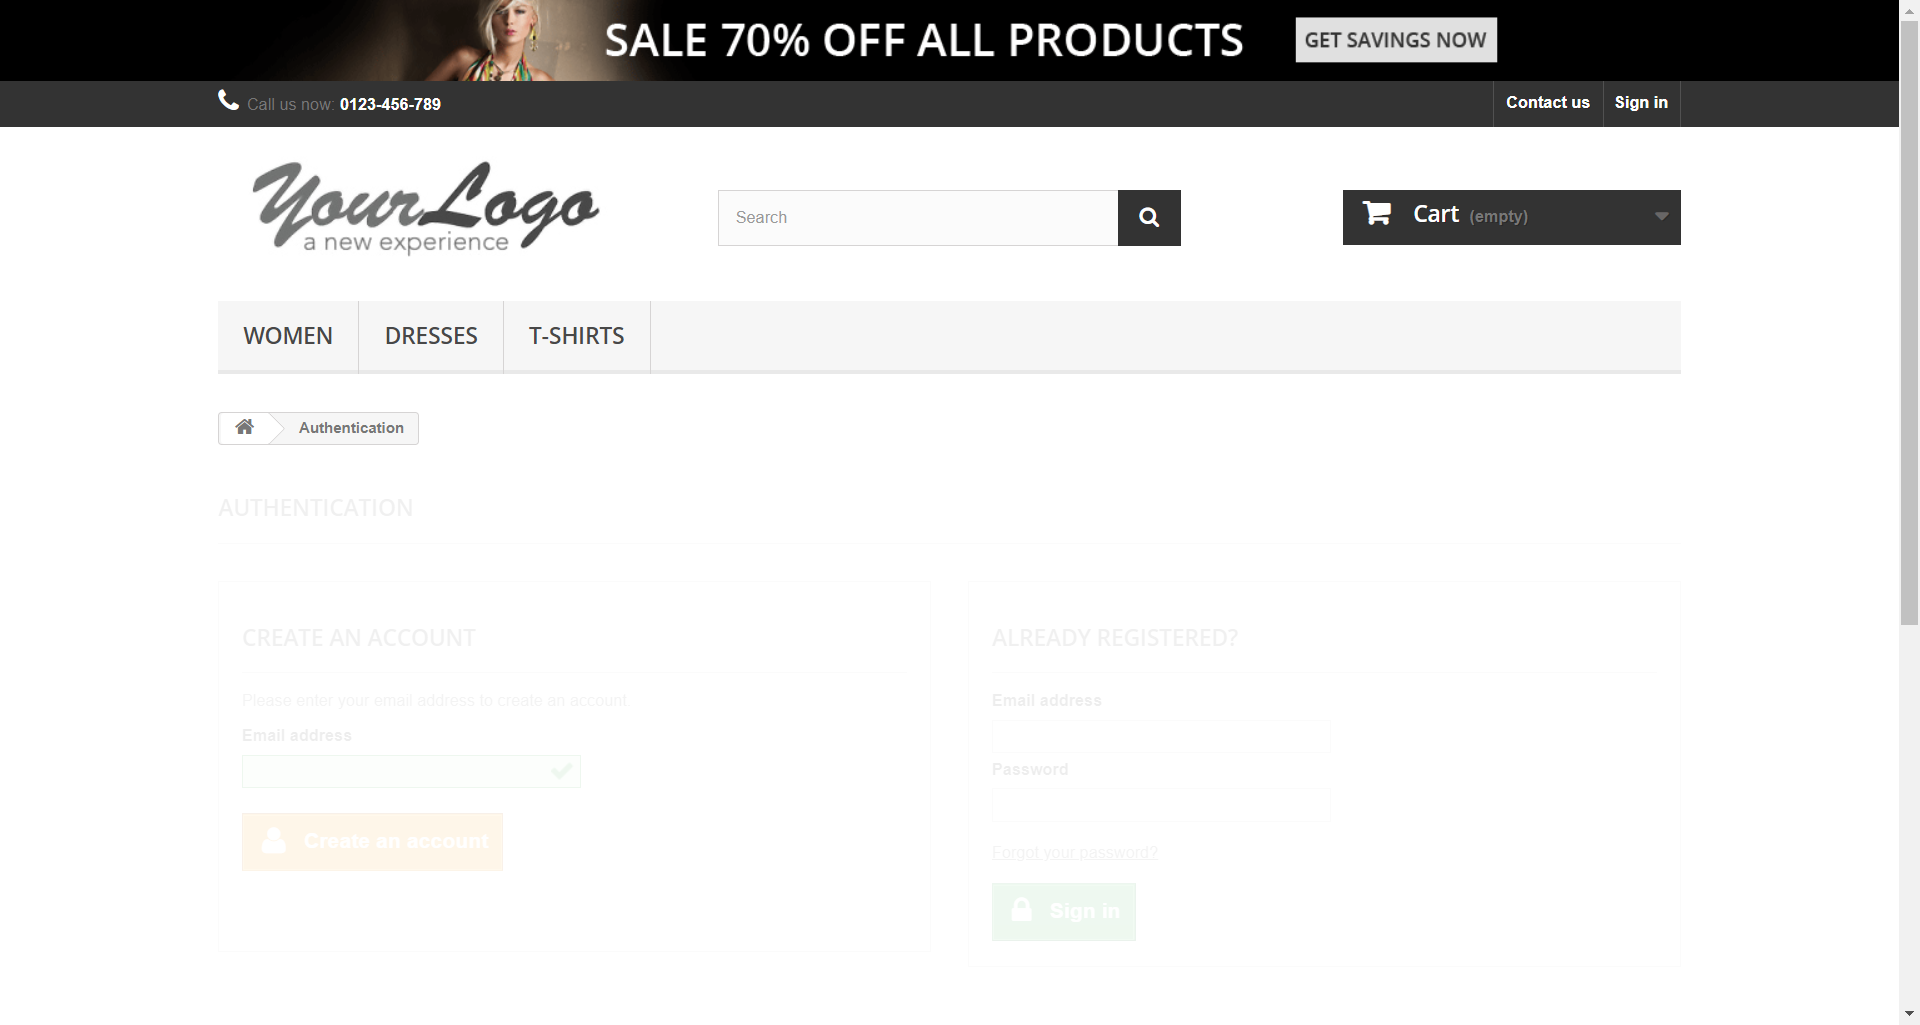
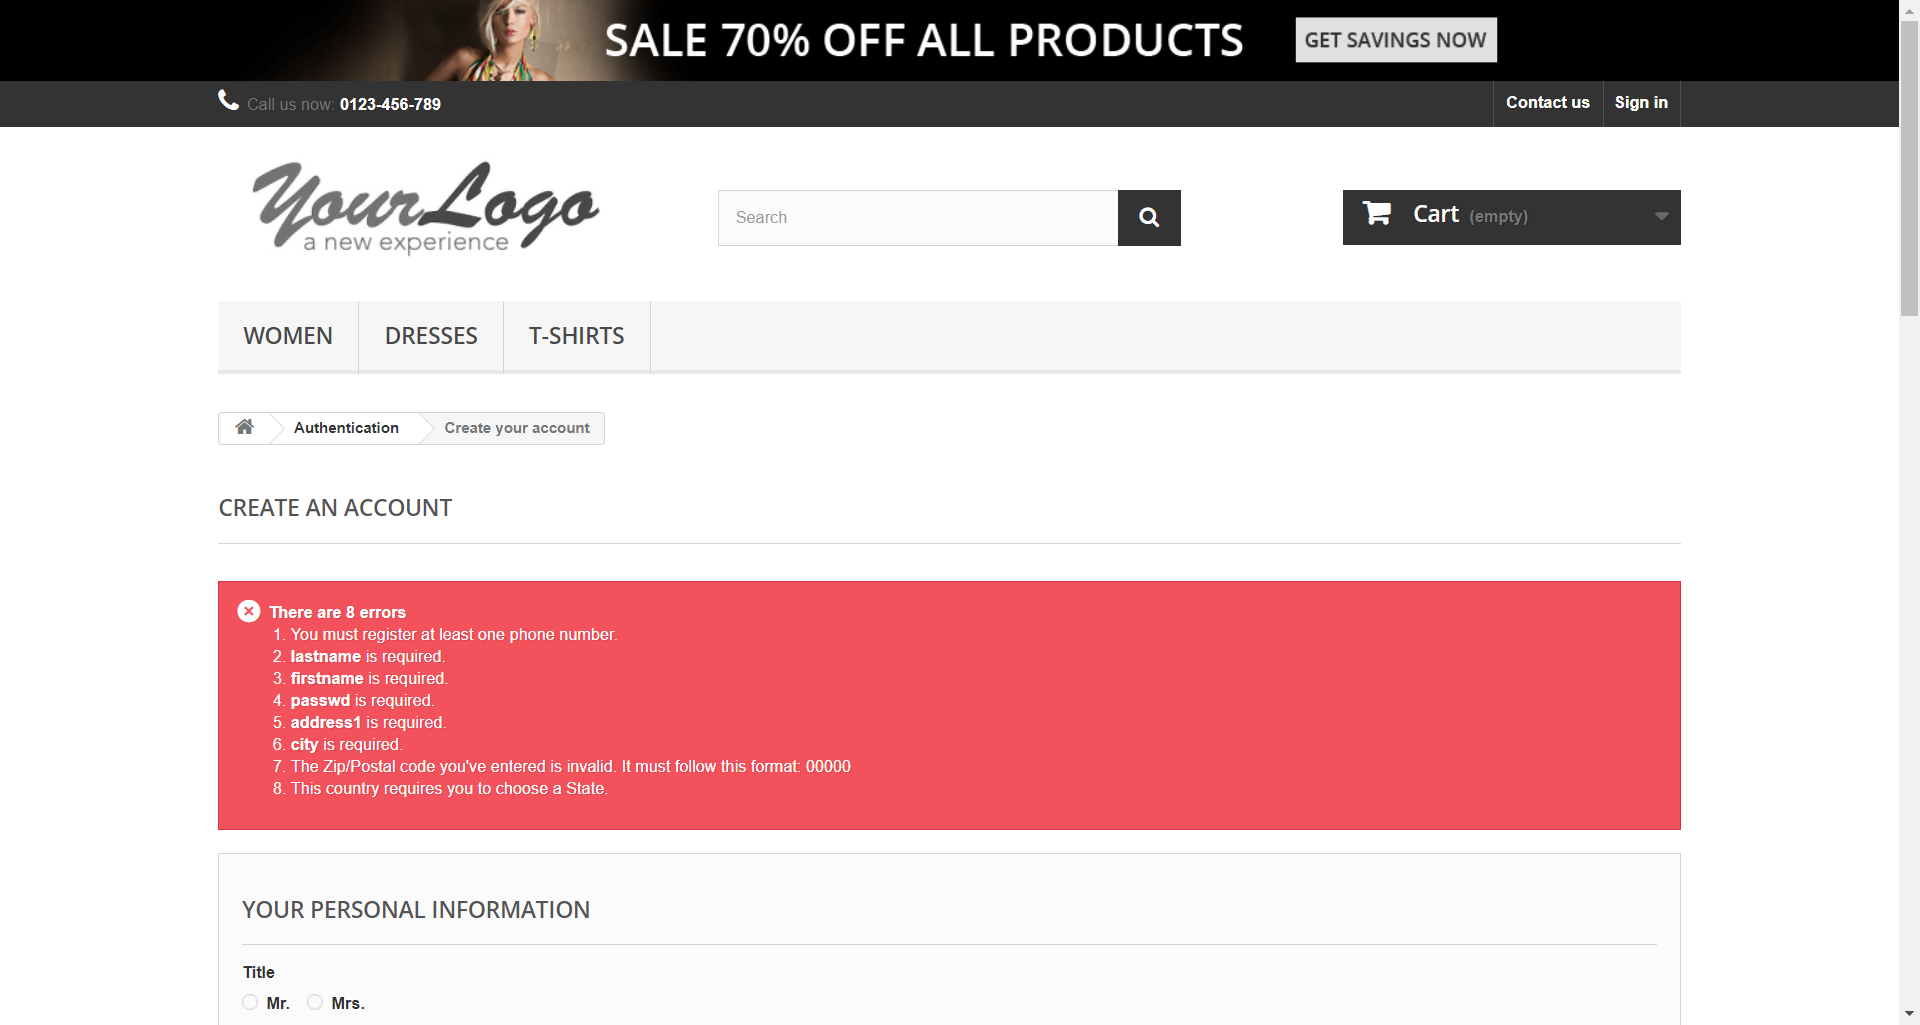
Add more Register scenarios

diff --git a/src/test/java/com/Intive/Patronage/tests/pages/RegisterPage.java b/src/test/java/com/Intive/Patronage/tests/pages/RegisterPage.java
@@ -1,11 +1,15 @@
 package com.Intive.Patronage.tests.pages;
 
 import org.junit.Assert;
+import org.openqa.selenium.By;
 import org.openqa.selenium.WebDriver;
 import org.openqa.selenium.WebElement;
 import org.openqa.selenium.support.FindBy;
 import org.openqa.selenium.support.How;
 import org.openqa.selenium.support.PageFactory;
+import org.openqa.selenium.support.ui.Select;
+
+import java.util.Random;
 
 
 public class RegisterPage {
@@ -27,6 +31,34 @@ public class RegisterPage {
 
     @FindBy (how = How.XPATH, using = "//ol/li[1]")
     public WebElement alertPopUpText;
+
+    @FindBy (how = How.ID, using = "customer_firstname")
+    public WebElement firstName;
+
+    @FindBy (how = How.ID, using = "customer_lastname")
+    public WebElement lastName;
+
+    @FindBy (how = How.ID, using = "passwd")
+    public WebElement password;
+
+    @FindBy (how = How.ID, using = "address1")
+    public WebElement address;
+
+    @FindBy (how = How.ID, using = "city")
+    public WebElement city;
+
+    @FindBy (how = How.ID, using = "postcode")
+    public WebElement postalCode;
+
+    @FindBy (how = How.ID, using = "phone_mobile")
+    public WebElement mobilePhone;
+
+    @FindBy (how = How.ID, using = "submitAccount")
+    public WebElement registerButton;
+
+    @FindBy (how = How.CLASS_NAME, using = "alert-danger")
+    public WebElement alertPopUpMany;
+
 
 
     public RegisterPage(final WebDriver driver) {
@@ -63,6 +95,71 @@ public class RegisterPage {
     public void catchAlertPopUpTextAlreadyRegisteredEmail() {
         String catchAlertText = alertPopUpText.getText();
         String checkAlertText = "An account using this email address has already been registered. Please enter a valid password or request a new one.";
+        Assert.assertEquals(checkAlertText, catchAlertText);
+    }
+
+    public void generateRandomEmail() {
+        Random objGenerator = new Random();
+        int randomNumber = objGenerator.nextInt(100000);
+
+        String emailAddress = randomNumber + "@gmail.com";
+        emailBox.sendKeys(emailAddress);
+    }
+
+    public void fillUpFirstName(String name) {
+        firstName.sendKeys(name);
+    }
+
+    public void fillUpLastName(String name) {
+        lastName.sendKeys(name);
+    }
+
+    public void fillUpPassword(String passwd) {
+        password.sendKeys(passwd);
+    }
+
+    public void fillUpAddress(String addr) {
+        address.sendKeys(addr);
+    }
+
+    public void fillUpCity(String c) {
+        city.sendKeys(c);
+    }
+
+    public void fillUpPostalCode(String code) {
+        postalCode.sendKeys(code);
+    }
+
+    public void fillUpMobilePhone(String phone) {
+        mobilePhone.sendKeys(phone);
+    }
+
+    public void clickOnRegisterButton() {
+        registerButton.click();
+    }
+
+    public void iAmOnMyAccPage() {
+        String currPage = driver.getCurrentUrl();
+        String myAccPage = "http://automationpractice.com/index.php?controller=my-account";
+        Assert.assertEquals(currPage, myAccPage);
+    }
+
+    public void chooseState() {
+        Select state = new Select(driver.findElement(By.id("id_state")));
+        state.selectByIndex(2);
+    }
+
+    public void catchAlertPopUpWithAllErrors() {
+        String catchAlertText = alertPopUpMany.getText();
+        String checkAlertText = "There are 8 errors\n" +
+                "You must register at least one phone number.\n" +
+                "lastname is required.\n" +
+                "firstname is required.\n" +
+                "passwd is required.\n" +
+                "address1 is required.\n" +
+                "city is required.\n" +
+                "The Zip/Postal code you've entered is invalid. It must follow this format: 00000\n" +
+                "This country requires you to choose a State.";
         Assert.assertEquals(checkAlertText, catchAlertText);
     }
 }

diff --git a/src/test/java/com/Intive/Patronage/tests/steps/RegisterSteps.java b/src/test/java/com/Intive/Patronage/tests/steps/RegisterSteps.java
@@ -42,13 +42,73 @@ public class RegisterSteps extends DriverFactory {
         register.catchAlertPopUpTextInvalidEmail();
     }
 
-    @And("^I fill up Email address with incorrect phrase \"([^\"]*)\"$")
-    public void iFillUpEmailAddressWithIncorrectPhrase(String emailAddress) {
+    @And("^I fill up Email address with \"([^\"]*)\"$")
+    public void iFillUpEmailAddressWith(String emailAddress) {
         register.fillEmail(emailAddress);
     }
 
     @Then("^I see that error pop-up about email address already registered is visible$")
     public void iSeeThatErrorPopUpAboutEmailAddressAlreadyRegisteredIsVisible() {
         register.catchAlertPopUpTextAlreadyRegisteredEmail();
+    }
+
+    @And("^I fill up Email address with correct not registered phrase$")
+    public void iFillUpEmailAddressWithCorrectNotRegisteredPhrase() {
+        register.generateRandomEmail();
+    }
+
+    @And("^I fill up First name with \"([^\"]*)\"$")
+    public void iFillUpFirstNameWith(String name) {
+        register.fillUpFirstName(name);
+    }
+
+    @And("^I fill up Last name with \"([^\"]*)\"$")
+    public void iFillUpLastNameWith(String name) {
+        register.fillUpLastName(name);
+    }
+
+    @And("^I fill up Password with \"([^\"]*)\"$")
+    public void iFillUpPasswordWith(String passwd) {
+        register.fillUpPassword(passwd);
+    }
+
+    @And("^I fill up Address with \"([^\"]*)\"$")
+    public void iFillUpAddressWith(String addr) {
+        register.fillUpAddress(addr);
+    }
+
+    @And("^I fill up City with \"([^\"]*)\"$")
+    public void iFillUpCityWith(String c) {
+        register.fillUpCity(c);
+    }
+
+    @And("^I choose State$")
+    public void iChooseState() {
+        register.chooseState();
+    }
+
+    @And("^I fill up Zip Code with \"([^\"]*)\"$")
+    public void iFillUpZipCodeWith(String code) {
+        register.fillUpPostalCode(code);
+    }
+
+    @And("^I fill up Mobile phone with \"([^\"]*)\"$")
+    public void iFillUpMobilePhoneWith(String phone) {
+        register.fillUpMobilePhone(phone);
+    }
+
+    @And("^I click on register button$")
+    public void iClickOnRegisterButton() {
+        register.clickOnRegisterButton();
+    }
+
+    @Then("^I see my account view$")
+    public void iSeeMyAccountView() {
+        register.iAmOnMyAccPage();
+    }
+
+    @Then("^I see many error pop-ups$")
+    public void iSeeManyErrorPopUps() {
+        register.catchAlertPopUpWithAllErrors();
     }
 }
